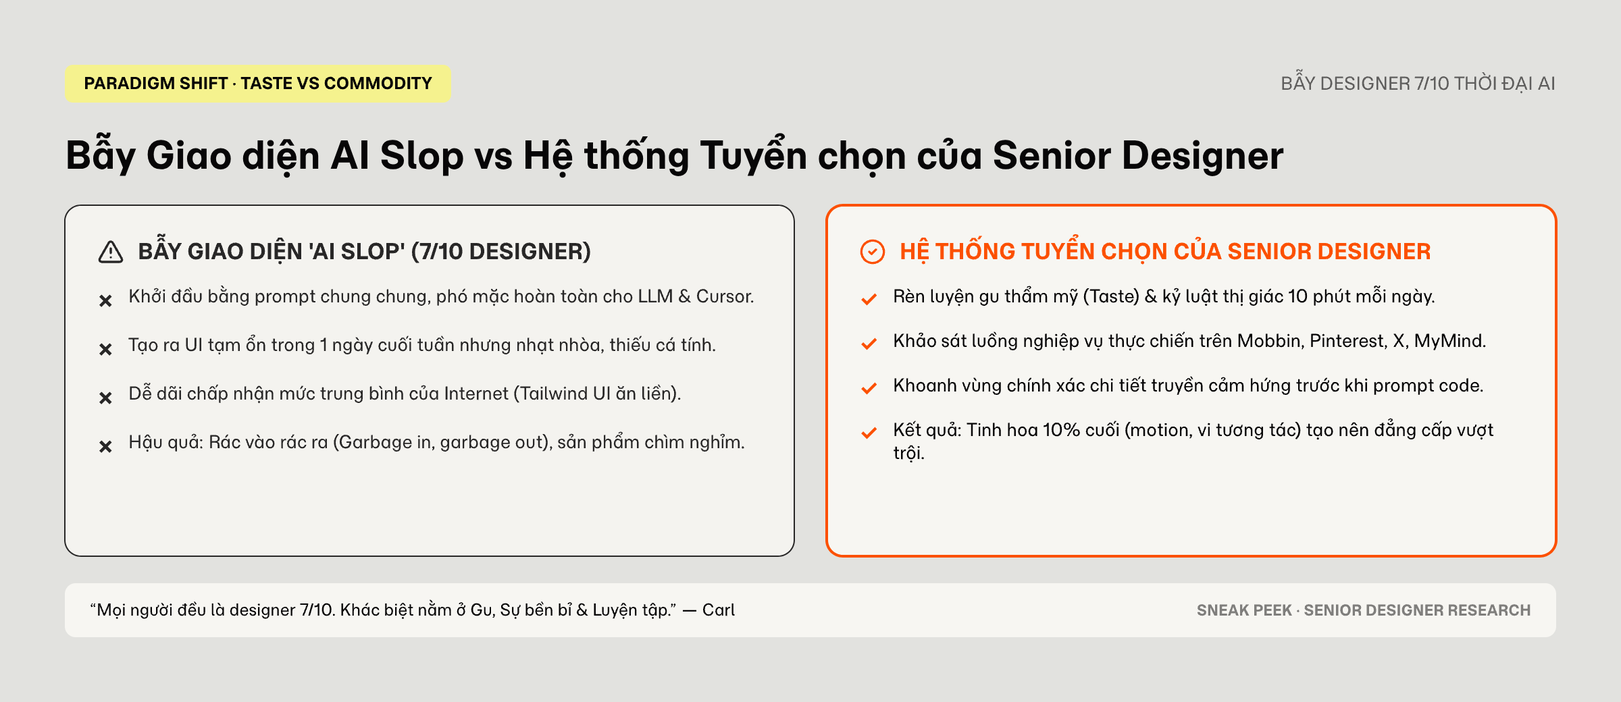
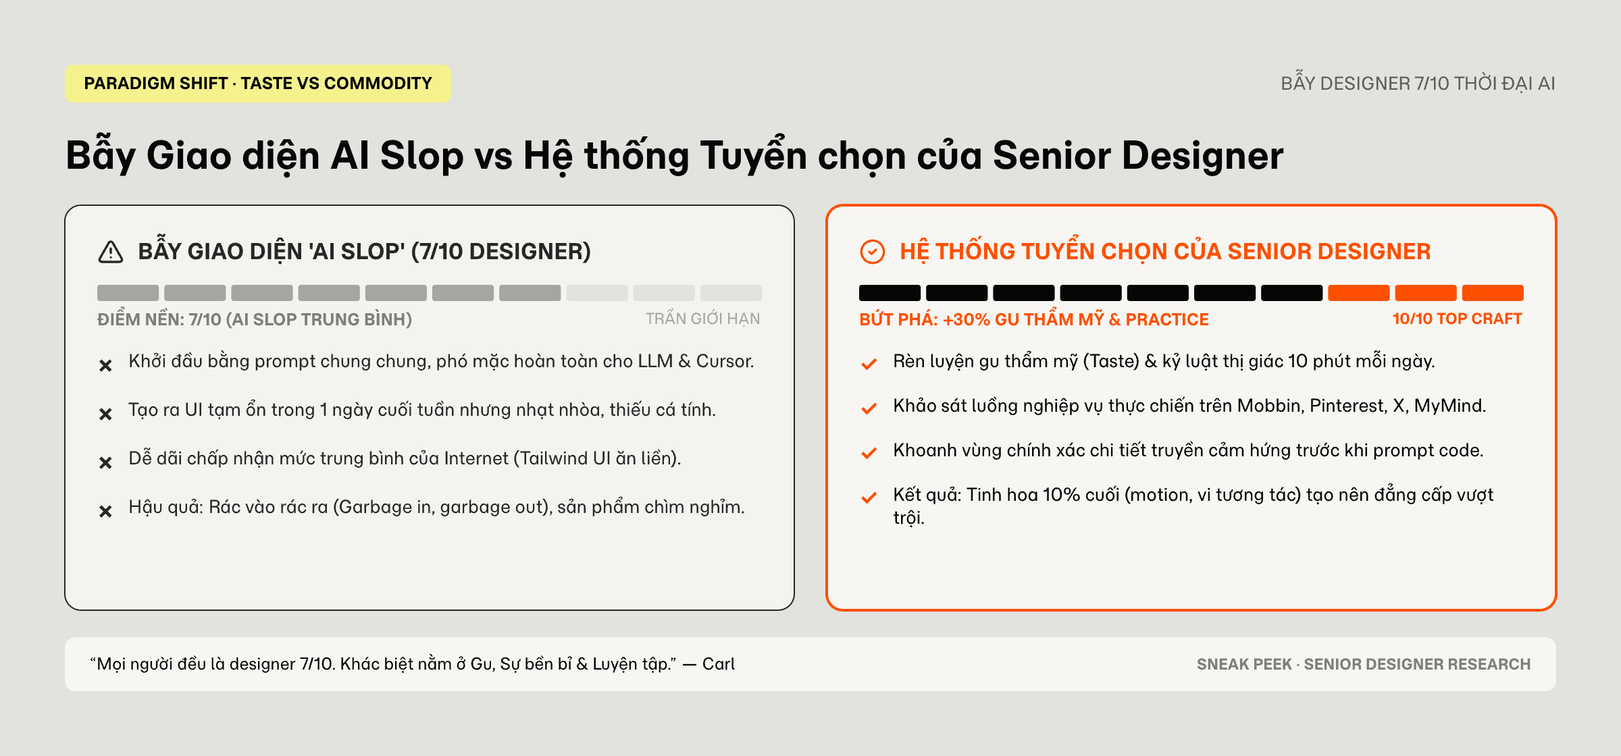
feat(design): update I8Prc and YfOHw with visual encoding and shape cues

diff --git a/docs/book/ai-design/how-designers-collect-inspiration.md b/docs/book/ai-design/how-designers-collect-inspiration.md
@@ -4,113 +4,93 @@ description: "Khám phá bí quyết sưu tầm và quản trị cảm hứng th
 
 # Cách 7 Senior Designer Sưu Tầm Cảm Hứng Thiết Kế: Thoát Khỏi Bẫy "AI Slop"
 
-Sự bùng nổ của các mô hình sinh giao diện tự động (v0, Cursor, Lovable) đã tạo ra một hiện tượng kỳ lạ trong ngành thiết kế: chưa bao giờ việc tạo ra một giao diện người dùng (UI) lại dễ dàng và rẻ mạt đến thế, nhưng cũng chưa bao giờ các sản phẩm công nghệ trông lại giống nhau và nhạt nhòa đến thế. Giới thiết kế gọi đây là làn sóng **"AI Slop"** — những bản thiết kế đại trà, hào nhoáng ở bề mặt nhưng rỗng tuếch về chiều sâu trải nghiệm.
+Người đọc sẽ học được phương pháp rèn luyện bộ lọc gu thẩm mỹ hàng ngày để vượt qua bẫy giao diện 7/10 của AI, kỹ thuật khoanh vùng chi tiết có ngữ cảnh thay vì quăng ảnh bừa bãi, và cách bóc tách vi tương tác chuyển động thực tế trên điện thoại.
 
-Làm thế nào để những Product Designer kỳ cựu tại các công ty hàng đầu như Shopify, DuckDuckGo, Firefox, hay Webflow giữ được bản sắc và chất lượng sản phẩm? Câu trả lời không nằm ở việc họ dùng model AI nào mạnh hơn, mà nằm ở **cách họ thu thập, chọn lọc và chuyển hóa cảm hứng thiết kế (Inspiration & Curation)** ngay từ trước khi chạm tay vào bản vẽ.
+{% hint style="info" %}
+**Điểm đáng chú ý:** Thay vì lưu ảnh nguyên khối làm AI code agent bị nhiễu thông tin khi sinh code, senior designer dùng bút dạ quang số khoanh đúng cụm tương tác cần học và chỉ đưa ảnh đã crop vào prompt. Đồng thời, họ tuyệt đối không đánh giá chuyển động (motion) trên màn hình máy tính lớn mà luôn cầm điện thoại lên vuốt thử để cảm nhận độ trễ vật lý thực sự.
+{% endhint %}
 
 ---
 
 ## 1. Thoát Khỏi Bẫy "AI Slop": Khi Mọi Người Đều Trở Thành "Designer 7/10"
 
-Trong buổi trò chuyện, Carl — một chuyên gia thiết kế kỳ cựu — đã đưa ra một nhận định thẳng thắn:
+Trong buổi trò chuyện, Carl — một chuyên gia thiết kế kỳ cựu — đã đưa ra một nhận định thẳng thắn về thực trạng thị trường hiện nay:
 
 > "Giờ đây ai cũng có thể trở thành một designer mức 7/10. Một AI agent có thể dựng cho bạn một giao diện trông khá ổn, dùng Tailwind CSS ngăn nắp chỉ sau một ngày cuối tuần. Nhưng để thực sự tạo ra sự khác biệt, đó là lúc Gu thẩm mỹ (Taste), Sự bền bỉ (Duration) và Luyện tập thực chiến (Practice) lên tiếng."
 
-Khi rào cản kỹ thuật để tạo ra một giao diện mức khá bị xóa nhòa, thị trường ngập tràn các sản phẩm giống hệt nhau. Nếu designer chỉ dựa vào những mẫu prompt chung chung, kết quả nhận lại sẽ luôn là mức trung bình của Internet.
+Sự bùng nổ của các mô hình sinh giao diện tự động (v0, Cursor, Lovable) khiến việc tạo ra một sản phẩm đạt mức khá trở nên quá rẻ mạt. Khi ai cũng có thể gõ prompt để sinh ra các layout hào nhoáng nhưng rỗng tuếch ở bề mặt, ranh giới phân định đẳng cấp giữa một người làm nghề lâu năm và người dùng AI phổ thông hoàn toàn đảo chiều.
 
 ![Bẫy Giao diện AI Slop vs Hệ thống Tuyển chọn của Senior Designer](../../assets/design/I8Prc.png)
 
 {% hint style="warning" %}
-**Quy luật Garbage In, Garbage Out (Rác vào thì Rác ra):** Tâm trí của designer hoạt động giống hệt một cỗ máy xử lý dữ liệu. Nếu mỗi ngày bạn nạp vào mắt những sản phẩm hời hợt, giao diện ăn liền trên mạng xã hội, sản phẩm bạn tạo ra sẽ mang tính chất chắp vá tương tự. Ngược lại, nếu liên tục nuôi dưỡng đôi mắt bằng các trải nghiệm sản phẩm xuất sắc, não bộ sẽ tự động hình thành các liên kết mẫu hình (pattern recognition) tinh tế khi bắt tay vào giải quyết bài toán mới.
+**Quy luật Garbage In, Garbage Out (Rác vào thì Rác ra):** Tâm trí của designer hoạt động giống hệt một cỗ máy xử lý dữ liệu. Nếu mỗi ngày bạn nạp vào mắt những sản phẩm hời hợt, giao diện ăn liền trên mạng xã hội, sản phẩm bạn tạo ra sẽ mang tính chất chắp vá tương tự. Ngược lại, nếu liên tục nuôi dưỡng đôi mắt bằng các trải nghiệm sản phẩm xuất sắc, não bộ sẽ tự động hình thành các liên kết mẫu hình (pattern recognition — khả năng nhận biết các quy luật bố cục, nhịp điệu typography và độ thở của khoảng trắng) tinh tế khi bắt tay vào giải quyết bài toán mới.
 {% endhint %}
 
-Kastan — Product Designer tại Shopify — dành riêng 10 phút đầu mỗi buổi sáng bên tách cà phê chỉ để lướt qua các bộ sưu tập thiết kế chất lượng cao. Đây không phải là hành động lướt web vô định, mà là một kỷ luật rèn luyện thị giác hàng ngày để giữ cho "gu" thiết kế luôn sắc bén.
+Tại Shopify, Kastan duy trì một thói quen bất biến: dành riêng 10 phút đầu mỗi buổi sáng bên tách cà phê chỉ để lướt qua các bộ sưu tập thiết kế có độ hoàn thiện cao nhất. Hành động này không nhằm mục đích tìm kiếm giải pháp tức thời cho một bài toán cụ thể, mà là một kỷ luật rèn luyện cơ bắp thị giác nhằm giữ cho tiêu chuẩn thẩm mỹ không bị kéo tụt bởi làn sóng thiết kế đại trà.
 
 ---
 
 ## 2. Bản Đồ Nguồn Cảm Hứng: Phân Tách "Thực Chiến UX" Và "Nuôi Dưỡng Gu Thẩm Mỹ"
 
-Một sai lầm phổ biến của các designer trẻ là dồn tất cả nhu cầu tìm cảm hứng vào một nguồn duy nhất (như Dribbble hay Pinterest). Senior designer phân chia các kênh tiếp nhận cảm hứng thành những mục tiêu hoàn toàn tách biệt:
+Một sai lầm kinh điển của các designer là dồn toàn bộ nhu cầu tìm kiếm ý tưởng vào các nền tảng thiên về trình diễn đồ họa (như Dribbble hay Pinterest). Khi gặp một bài toán hóc búa về kiến trúc thông tin hay luồng thanh toán phức tạp, những giao diện bóng bẩy nhưng thiếu logic thực tế đó lập tức trở nên vô dụng.
+
+Để không bị nhầm lẫn giữa "cảm xúc thẩm mỹ" và "năng lực giải quyết bài toán nghiệp vụ", các Senior Designer thiết lập một hệ thống phễu tiếp nhận hai tầng tách biệt hoàn toàn:
 
 ![Hệ thống Phễu Cảm hứng Đa tầng](../../assets/design/ROIZI.png)
 
-{% columns %}
-{% column width="50%" %}
-### Nhóm 1: Thực chiến UX & Logic Nghiệp vụ
-* **Mobbin:** Nguồn chân lý cho các luồng sản phẩm thực tế (real-world product journeys). Nơi designer khảo sát cách các ứng dụng hàng đầu thế giới giải quyết các bài toán hóc búa: phân quyền (Access Control), luồng thanh toán (Checkout), xác thực bảo mật, hoặc điều hướng phức tạp.
-* **X (Twitter):** Theo dõi các thử nghiệm tương tác mới nhất từ các nhà sáng tạo độc lập và kỹ sư thiết kế (Design Engineers) trước khi chúng trở thành xu hướng đại chúng.
-{% endcolumn %}
+Điểm cốt lõi trong mô hình này là sự xuất hiện của các không gian chia sẻ nội bộ. Điển hình như tại Shopify, đội ngũ xây dựng một nền tảng riêng mang tên **Studio** — nơi các designer chia sẻ các bản prototype chạy bằng code thật, video ghi lại các tương tác chuyển cảnh và các thử nghiệm táo bạo. 
 
-{% column width="50%" %}
-### Nhóm 2: Nuôi dưỡng Gu & Cảm xúc Thị giác
-* **Pinterest & Layers.to:** Nơi tìm kiếm "nước ép và hương vị" (juice & taste) — cảm hứng về typography độc đáo, bảng màu phá cách, và bố cục đồ họa nghệ thuật.
-* **MyMind:** Không gian cá nhân lưu trữ mọi thứ gợi cảm hứng ngoài đời thực: từ tem thư cổ, áp phích bóng chày, đến các video nghệ thuật. Quá trình chọn lọc và loại bỏ những thứ không còn thích giúp định hình bản sắc thẩm mỹ riêng.
-{% endcolumn %}
-{% endcolumns %}
-
-Đặc biệt tại Shopify, đội ngũ thiết kế xây dựng một công cụ nội bộ mang tên **Studio** (được ví như một mạng xã hội Dribbble nội bộ của Shopify). Tại đây, mọi nhân viên — từ designer, kỹ sư đến CEO Tobi Lütke — đều có thể xem các đoạn video quay màn hình prototype code tương tác, các thử nghiệm motion và ý tưởng mới lạ đang trong quá trình thai nghén.
+Thay vì chỉ nhìn ngắm sản phẩm của các công ty bên ngoài, việc quan sát chính đồng nghiệp và các kỹ sư thiết kế (Design Engineers) cùng công ty biến ý tưởng thành hiện thực chính là chất xúc tác mạnh mẽ nhất thúc đẩy chuẩn mực sản phẩm chung của toàn tổ chức.
 
 ---
 
 ## 3. Chú Thích Có Ngữ Cảnh: Tại Sao Quăng Ảnh Hàng Loạt Là Vô Nghĩa
 
-Rất nhiều designer có thói quen chụp màn hình hàng tá giao diện đẹp mắt rồi quăng bừa bãi lên một bảng Figma trống. Sau vài ngày, chính họ cũng không nhớ tại sao mình lại lưu bức ảnh đó.
+Thói quen chụp hàng loạt bức ảnh màn hình rồi gom vào một bảng Figma trống là cái bẫy phổ biến nhất làm cạn kiệt năng lượng sáng tạo. Sau vài ngày quay lại, chính tác giả cũng không thể nhớ nổi tại sao mình lại lưu bức ảnh đó, trong khi đồng nghiệp nhìn vào chỉ thấy một mớ hỗn độn không đầu không cuối.
 
-Tại Shopify, Kastan áp dụng một phương pháp làm việc chặt chẽ trên FigJam:
+Kastan (Shopify) giải quyết triệt để sự lãng phí này bằng kỹ thuật khoanh vùng có ngữ cảnh:
 
 ![Thói quen Quăng ảnh Không Ngữ cảnh vs Kỹ thuật Khoanh vùng Trọng điểm](../../assets/design/YfOHw.png)
 
-Khi nghiên cứu tính năng tạo nội dung bằng AI cho người bán hàng (Shopify Merchants), Kastan chụp màn hình giao diện Midjourney và các công cụ hàng đầu. Nhưng thay vì để nguyên ảnh, anh dùng **bút dạ quang vàng (yellow highlights) khoanh vùng chính xác thành phần mang lại giá trị**:
-* Hộp điều khiển tham số (parameter control panel) của Midjourney.
-* Cơ chế sắp xếp và phân loại các tác phẩm trong thư viện gallery.
-* Cách bố trí các nút điều hướng phụ trên phiên bản di động.
+Khi nghiên cứu tính năng tạo nội dung bằng AI cho người bán hàng, Kastan khảo sát giao diện của Midjourney. Thay vì chụp nguyên trang web, anh dùng **bút dạ quang vàng khoanh đúng cụm thanh điều khiển tham số (parameters panel)** và chỉ ghi chú đúng lý do tại sao chi tiết này đáng học hỏi.
 
-{% hint style="info" %}
-**Hai giá trị sống còn của việc Highlight ngữ cảnh:**
-1. **Cộng tác giữa người với người:** Stakeholder hay Product Manager khi nhìn vào bảng FigJam sẽ hiểu ngay lập tức bạn muốn học hỏi điều gì, thay vì phải đoán mò ý đồ đằng sau một bức ảnh chụp màn hình lớn.
-2. **Cộng tác với AI Code Agents:** Khi làm việc với các công cụ lập trình AI (Cursor, Claude Code, v0), việc đưa cả một bức ảnh lớn sẽ làm mô hình bị nhiễu thông tin (noise). Việc cắt cúp (crop) và khoanh vùng chính xác chi tiết giúp AI nhận diện đúng thành phần cần tái lập và sinh ra code sạch, chuẩn xác 100%.
-{% endhint %}
+Kỹ thuật này tạo ra một bước ngoặt khi làm việc với các công cụ lập trình AI (như Cursor, Claude Code hay v0). Nếu nạp cả một bức ảnh chụp màn hình lớn vào prompt, mô hình thị giác của AI sẽ bị phân tán bởi hàng tá thông tin nền rác (noise) và sinh ra những đoạn mã sai lệch. Nhưng khi đưa vào một hình ảnh đã được crop chính xác cùng vùng khoanh dạ quang, AI sẽ hiểu ngay lập tức cấu trúc component cần tái lập và viết ra đoạn mã chuẩn xác gần như tuyệt đối.
 
 ---
 
 ## 4. Giải Phẫu Chuyển Động (Motion): Vũ Khí Tối Thượng Của Design Engineer
 
-Trong các dự án phần mềm, chuyển động (motion) và vi tương tác (micro-interactions) thường chịu chung một số phận: khi tiến độ dự án bị ép rút ngắn, tính năng chuyển động là thứ đầu tiên bị ban quản lý cắt bỏ vì bị coi là "trang trí không cần thiết".
+Khi tiến độ dự án bị ép gấp rút, chuyển động (motion) và vi tương tác (micro-interactions) thường là những hạng mục đầu tiên bị ban quản lý thẳng tay cắt bỏ vì bị coi là "lớp trang trí bề nổi".
 
-Tuy nhiên, đối với một Design Engineer tại DuckDuckGo hay Intercom, **chuyển động chính là 10% tinh hoa cuối cùng quyết định đẳng cấp của một sản phẩm phần mềm**:
+Tuy nhiên, đối với một Design Engineer tại DuckDuckGo hay Intercom, sự mượt mà của chuyển động chính là yếu tố duy nhất phân định một sản phẩm hạng nhất với một sản phẩm tầm thường:
 
 ![Vòng lặp Giải phẫu Chuyển động](../../assets/design/H7LatI.png)
 
-Khi làm việc với các tính năng AI tại DuckDuckGo, các tương tác như: *Trạng thái chờ AI suy nghĩ (thinking state) phản hồi thế nào? Con trỏ nhấp nháy ra sao? Độ trễ giữa các khối văn bản xuất hiện mượt mà hay giật cục?* đều phải được giải phẫu tỉ mỉ.
+Khi Carl thiết kế các tính năng AI tìm kiếm tại DuckDuckGo, những chi tiết tưởng chừng rất nhỏ — như cách con trỏ nhấp nháy trong lúc AI đang suy nghĩ, hay độ trễ giữa các khối văn bản xuất hiện — đều được bóc tách tỉ mỉ từng khung hình trên công cụ ghi nhận chuyển động của Mobbin.
 
-Thay vì phải tự mình quay video màn hình trên điện thoại rồi tua chậm từng giây, các designer tận dụng kho lưu trữ motion của Mobbin để bóc tách từng chuyển động vi mô. Họ quan sát gia tốc chuyển cảnh (easing curves), nhịp điệu phản hồi, và quan trọng nhất: **cầm trực tiếp điện thoại lên để tương tác thật**. Cảm giác ngón tay chạm vào màn hình mang lại trực giác thiết kế mà không một bức ảnh chụp tĩnh nào có thể truyền tải được.
+Nhưng bí quyết quan trọng nhất không nằm ở phần mềm đo đạc, mà nằm ở việc **trực tiếp cầm thiết bị di động lên để vuốt thử**. Độ trễ vật lý khi ngón tay chạm vào màn hình cảm ứng, cảm giác nảy của thanh cuộn và nhịp thở của giao diện là những thứ không một màn hình máy tính lớn hay bản vẽ tĩnh nào có thể giả lập được.
 
 ---
 
 ## 5. Kế Thừa Chuẩn Ngành Hay Đột Phá: Bài Học Phân Tầng Trong Ứng Dụng Phức Tạp
 
-Khi đối mặt với các bài toán nghiệp vụ phức tạp trong sản phẩm doanh nghiệp (B2B SaaS / Enterprise) — như trang quản trị phân quyền (Access Control), cài đặt quyền riêng tư tài khoản (Account Privacy Settings), hay hệ thống giao diện tối (Dark Mode) — các Senior Designer luôn tuân thủ nguyên tắc: **Đừng cố phát minh lại bánh xe**.
+Khi đối mặt với các bài toán nghiệp vụ phức tạp trong sản phẩm doanh nghiệp (B2B SaaS / Enterprise) — như trang quản trị phân quyền (Access Control), cài đặt tài khoản, hay phân lớp giao diện tối (Dark Mode) — việc cố gắng sáng tạo ra một bố cục hoàn toàn mới thường là khởi đầu của thảm họa trải nghiệm.
+
+3 nguyên tắc vàng dưới đây là kim chỉ nam giúp các Senior Designer cân bằng giữa tính nhất quán và sự đổi mới:
 
 ![3 Nguyên tắc Vàng khi Sưu tầm Cảm hứng Thiết kế](../../assets/design/DP4Sa.png)
 
-Khi nghiên cứu cấu trúc trang cài đặt tài khoản của Airbnb, họ bóc tách cấu trúc mẫu mực đã được hàng trăm triệu người dùng công nhận:
-1. **Cột điều hướng phân cấp bên trái:** Phân chia rành mạch các khu vực quản trị.
-2. **Khối thẻ chứa các nút chuyển đổi (Toggles) lồng nhau:** Giúp người dùng quản lý quyền riêng tư mà không bị choáng ngợp.
-3. **Quy tắc phân lớp màu sắc (Dark Mode Layering):** Tránh bẫy tương phản sai lầm. Nhiều người lầm tưởng nền đen tuyền và chữ trắng tinh là tốt nhất, nhưng thực tế các ứng dụng hàng đầu luôn dùng **nền xám đậm (dark gray) kết hợp với các thẻ chứa (cards) có tông màu xám sáng hơn một bậc**, giúp mắt không bị mỏi khi nhìn lâu.
+Khi nghiên cứu cấu trúc trang cài đặt của Airbnb, bài học lớn nhất được rút ra là cách họ xử lý hệ thống giao diện tối (Dark Mode). Thay vì rơi vào bẫy tương phản sai lầm (dùng nền đen tuyền `#000000` tương phản gắt với chữ trắng tinh gây mỏi mắt), Airbnb thiết lập **nền xám đậm kết hợp với các thẻ chứa sáng hơn một bậc**, tạo nên chiều sâu thị giác êm ái cho người dùng làm việc ban đêm.
 
-{% stepper %}
-{% step %}
-### Khảo sát Mẫu hình Chuẩn (Industry Standards)
-Tìm kiếm trên Mobbin các ứng dụng hàng đầu giải quyết bài toán tương tự. Ghi nhận các quy ước chung mà người dùng đã quen thuộc trong tiềm thức (mental models).
-{% endstep %}
+<details>
+<summary><strong>Tìm hiểu chi tiết quy trình 3 bước từ khảo sát đến quyết định phá cách</strong></summary>
 
-{% step %}
-### Đối chiếu Biến số Riêng của Sản phẩm
+### Bước 1: Khảo sát Mẫu hình Chuẩn (Industry Standards)
+Tìm kiếm trên Mobbin các ứng dụng hàng đầu giải quyết bài toán tương tự. Ghi nhận các quy ước chung mà người dùng đã quen thuộc trong tiềm thức (mental models — mô hình tâm lý đã định hình sẵn cách tương tác).
+
+### Bước 2: Đối chiếu Biến số Riêng của Sản phẩm
 Đặt câu hỏi: *Mẫu thiết kế này của Airbnb có áp dụng nguyên xi vào sản phẩm của chúng ta được không?* Xem xét các yếu tố đặc thù về đối tượng người dùng, giới hạn kỹ thuật và mục tiêu kinh doanh.
-{% endstep %}
 
-{% step %}
-### Quyết định Tuân thủ hay Phá cách (Deviation)
+### Bước 3: Quyết định Tuân thủ hay Phá cách (Deviation)
 Chỉ phá cách ở những điểm chạm cốt lõi mang lại lợi thế cạnh tranh. Với các thành phần vận hành nền tảng (cài đặt, phân quyền, form nhập liệu), việc tuân theo chuẩn mực ngành là lựa chọn sáng suốt và tiết kiệm chi phí nhất cho toàn bộ tổ chức.
-{% endstep %}
-{% endstepper %}
+</details>

diff --git a/.claude/skills/digest/references/visual-vocabulary.md b/.claude/skills/digest/references/visual-vocabulary.md
@@ -1,5 +1,110 @@
 # Từ điển hình — bộ khởi điểm mở
 
+## Chức năng của hình: đúc kết đứng độc lập được
+
+**Hình không phải bản tóm tắt của chữ. Hình là một lối vào khác, đi thẳng tới kết
+luận.** Người chỉ quét hình — không đọc một dòng chữ nào trong bài — phải nắm được
+kết luận của mục đó. Người đọc chữ thì được lý lẽ, ví dụ, sắc thái mà hình không
+có chỗ chứa. Hai bên không thi nhau ôm thông tin; chúng phục vụ hai tốc độ đọc.
+
+Vì vậy **đẩy nội dung vào hình càng nhiều càng tốt** — hình không chỉ là nhãn, nó
+được phép chứa cả lý lẽ, số liệu, ví dụ. Đổi lại, **chữ hạn chế diễn giải lại điều
+hình đã nói.** Việc của chữ là dẫn nhập, mở bối cảnh, hoặc bổ sung thứ hình không
+có chỗ chứa (case study dài, ngoại lệ, lý do sâu) — không phải viết lại bằng văn
+xuôi những gì hình đã liệt kê.
+
+**Mẫu đúng, lấy từ chính bài DuckDuckGo (mục 1):** câu dẫn trước `vnZGL.png` là
+*"Khác với định kiến rằng một công ty công nghệ lớn phải sở hữu hệ thống công cụ
+đồ sộ, stack làm việc hàng ngày của Carl tại DuckDuckGo chỉ xoay quanh 4 thành
+phần tối giản..."* — mở bối cảnh, không nhắc lại bất kỳ chi tiết nào của 4 thẻ.
+Toàn bộ nội dung nằm trong hình.
+
+**Mẫu sai, cùng bài (mục 7):** hình `L0Blge.png` viết *"Đừng mất công vẽ hàng
+chục artboard tĩnh giả lập chuyển động. Hãy đưa ý tưởng vào môi trường code càng
+sớm càng tốt..."*, chữ bên dưới viết *"Đừng mất hàng chục giờ hoàn thiện hàng
+trăm artboard tĩnh cho các tương tác phức tạp. Hãy đưa ý tưởng vào môi trường
+code càng sớm càng tốt..."* — cùng một câu, đổi vài từ. Đây là diễn giải lại,
+không phải bổ sung. Khi viết chữ quanh một hình, nếu bắt gặp mình đang paraphrase
+một gạch đầu dòng đã có trong hình — cắt câu đó, hoặc đổi nó thành thông tin mới.
+
+### Giải phẫu một thẻ — đã tự hình thành qua 4 hình thật, giờ là chuẩn
+
+Nhìn `vnZGL.png`, `GbhQb.png`, `lMutS.png`, `L0Blge.png` (bài DuckDuckGo) thấy
+cùng một giải phẫu, độc lập với nội dung từng hình:
+
+```
+Nhãn ngắn (badge)
+Tiêu đề
+Vài gạch đầu dòng chi tiết      ← lớp BẰNG CHỨNG, chữ trong bài đã có sẵn
+Hàng kết ở đáy (số liệu/trích dẫn/verdict)   ← lớp ĐÚC KẾT
+```
+
+**Hàng kết phải là câu đứng một mình được.** Ví dụ đạt: "Bẫy one-shot bề nổi, dựa
+dẫm prompt và thiếu nền tảng, dừng lại ở prototype đồ chơi." Ví dụ không đạt: một
+con số trần trụi không kèm khẳng định gì ("80%" mà không nói 80% của cái gì, tốt
+hay xấu).
+
+### Phân cấp bắt buộc — cái gì to, cái gì được phép nhỏ
+
+| Lớp | Vai trò | Yêu cầu |
+|---|---|---|
+| Nhãn + tiêu đề + hàng kết | Đúc kết, phải đứng một mình được | Cỡ chữ **lớn nhất**, tương phản cao nhất trong thẻ. Dựng và canh cỡ chữ cho lớp này **trước** |
+| Gạch đầu dòng chi tiết | Nội dung thật, không phải phụ chú | Được phép nhỏ hơn lớp trên, nhưng **vẫn phải đọc được ở khổ hiển thị thật** — chữ trong bài không còn nghĩa vụ chứa lại nó |
+
+**Chữ không còn là bản dự phòng cho lớp chi tiết.** Trước đây lớp chi tiết được
+phép nhỏ với lý do "chữ đã chứa lại" — lý do đó hết hiệu lực từ khi chữ chuyển
+sang hạn chế lặp. Hình càng ôm nhiều nội dung, hình càng phải tự đọc được: nếu
+một chi tiết chỉ tồn tại trong hình mà hình lại quá nhỏ để đọc, chi tiết đó biến
+mất khỏi bài, không có nơi nào khác chứa nó.
+
+### Mã hoá bằng hình dạng — giảm chữ mà không giảm nghĩa
+
+6 hình đã kiểm (`vnZGL`, `GbhQb`, `lMutS`, `L0Blge`, `Rqkia`, `YfOHw`) đều là thẻ
+chữ thuần — không cái nào dùng kích thước, vị trí, hay mức lấp đầy để mang nghĩa.
+Đây là cơ hội bị bỏ phí: `GbhQb.png` có hàng kết "~35 Phút" đối lại "2 Tuần 6
+Ngày" — một chênh lệch khổng lồ, nhưng viết bằng chữ cùng cỡ. Não xử lý kích
+thước và mức lấp đầy gần như tức thời (dưới 200ms), xử lý chữ chậm hơn nhiều.
+Đổi kênh mã hoá từ chữ sang hình dạng nén được cùng một nội dung vào ít thời gian
+đọc hơn — không phải giảm nội dung.
+
+**Chỉ áp cho dữ liệu có bản chất định lượng:**
+
+| Dữ liệu có dạng | Vẽ bằng | Không còn viết thành câu |
+|---|---|---|
+| Tỷ lệ / phần trăm | Thanh ngang lấp theo tỷ lệ, hoặc donut (`fill` + `innerRadius`) | "chiếm 80% thời gian" |
+| Hai đại lượng chênh lệch lớn | Hai khối kích thước tỷ lệ thật với nhau | "35 phút so với 2 tuần 6 ngày" |
+| Đạt/không đạt, đúng/sai | Icon ✓/✗ (đã dùng tốt — tiếp tục) | "điều này đúng", "điều này sai" |
+| Khái niệm có vật thật liên tưởng | Pictogram (bánh taco, máy ảnh...) | Chỉ ghi tên khái niệm suông |
+
+**Không áp cho câu mang lý lẽ nhân-quả** — *"khiến Cursor sinh code thừa, sai
+trọng tâm"* không vẽ được bằng hình dạng, vẫn phải là chữ. Hình dạng thay được
+con số và trạng thái, không thay được lập luận.
+
+**Phép thử trước khi viết một gạch đầu dòng có số liệu:** tự hỏi "cái này vẽ
+được bằng hình dạng không?" Vẽ được thì vẽ, chữ chỉ còn làm nhãn ngắn đi kèm
+(ví dụ "35 phút" cạnh một thanh nhỏ), không viết lại thành câu đầy đủ.
+
+Nạp thêm skill `dataviz` khi dựng thanh tỷ lệ/donut/kích thước theo dữ liệu — nó
+có sẵn quy ước màu và hình cho stat tile/meter, đỡ phải tự nghĩ từ đầu. Pencil
+hỗ trợ sẵn: ưu tiên bar chart dựng bằng layout, donut bằng `fill` + `innerRadius`
+(xem `pen-dev` skill, mục "Graphs").
+
+Lỗi thật đã xảy ra không phải ở nội dung hình, mà ở việc đối xử ba lớp ngang nhau:
+`lMutS.png` có nhãn cột ("BẪY ONE-SHOT BỀ NỔI") cùng cỡ với gạch đầu dòng bên
+dưới, nên khi hình co lại (điện thoại, hoặc mắt lướt nhanh) phần đáng lẽ phải
+sống sót lại mờ trước.
+
+### Phép thử trước khi coi hình là xong
+
+Với **từng thẻ/node**: che phần gạch đầu dòng chi tiết, chỉ để nhãn + tiêu đề +
+hàng kết. Đọc lên có phải một kết luận trọn vẹn không? Không trọn vẹn thì hàng
+kết chưa đủ, hoặc lớp đúc kết chưa được ưu tiên đúng cỡ chữ.
+
+Áp dụng cho mọi loại hình, không chỉ dạng thẻ — `flow`/`loop`/`tree` thì nhãn trên
+mỗi node/mũi tên phải là một khẳng định ngắn, không phải danh từ trung tính; `anatomy`
+thì chú thích đánh số phải là nhận định ("nút này gây tràn"), không phải tên bộ
+phận suông ("nút X").
+
 ## Luật duy nhất
 
 **Hình dạng phải khớp cấu trúc của ý.** Hết. Mọi thứ dưới đây là gợi ý, không
